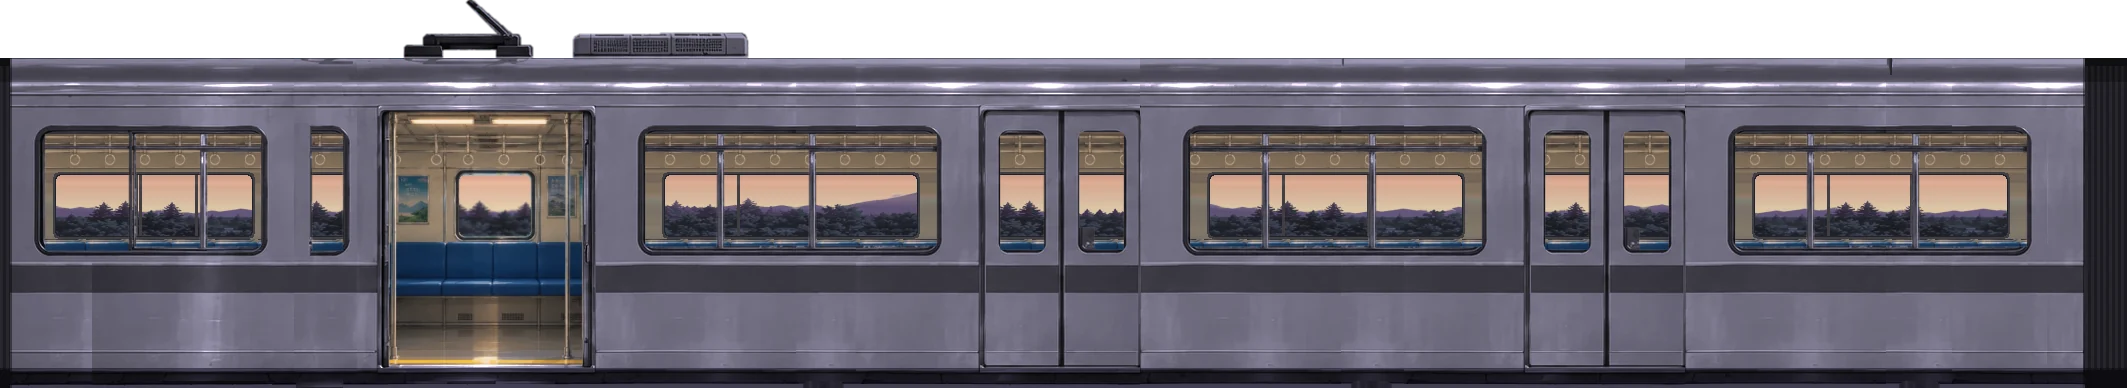
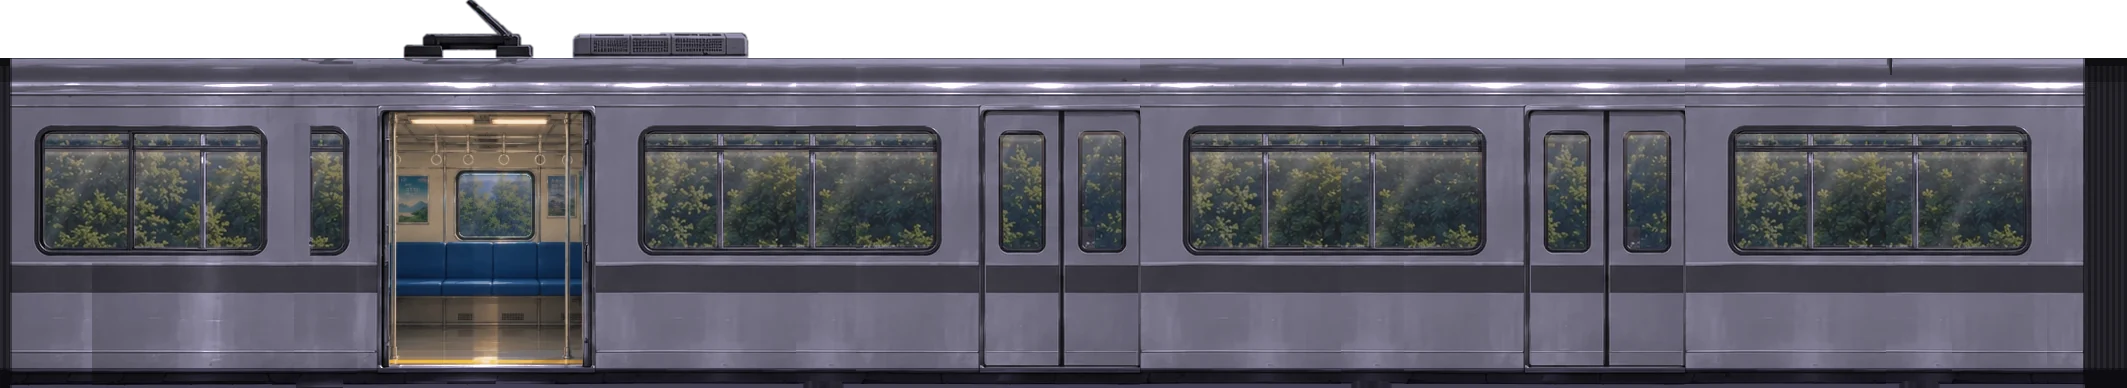
Practice on the desk: every window the painting's, relit for the hour (plan 244c)
Owner-directed: every window looks as the painting has it by day -- the
trees seen through the car -- at every hour, only the light changed.
windows_at grades the painting's own trees in linear light for the
hour (violet at dawn, warm at dusk, dark at night) in every window and
the doorway's far one, and puts on the glass what the hour puts there:
its sky fading down the pane, a soft sheen, after dark the lit car's
warmth and its ceiling's tubes along each pane's top. The view built
across the car (across, far_view) is gone.

Claude-Session: https://claude.ai/code/session_01ExhwgLgrR24R4iZ8iruncF

diff --git a/frontend/scripts/practice-gate/desk.py b/frontend/scripts/practice-gate/desk.py
@@ -11,8 +11,9 @@ revision the app asks for and where the scene keeps what the app draws
 over it or reads to fit it (the car, the door, the clock, the sign, the
 pillars). The day is the painting itself; dawn, dusk and night are it
 lit again by the phone's own recipes (hours.py), on this painting's
-parts (desk_parts.py), the car's windows showing its lit inside as the
-open doorway does (lit_windows). Needs numpy, Pillow and
+parts (desk_parts.py), every window showing the trees the painting
+shows through the car, lit for the hour, with the hour's light on its
+glass (windows_at). Needs numpy, Pillow and
 opencv-contrib-python-headless, as build.py does.
 
 A change to anything it writes bumps REV: the layers are cached under
@@ -31,7 +32,7 @@ sys.path.insert(0, str(HERE))
 import clouds                   # noqa: E402
 import desk_cut as cut          # noqa: E402
 import desk_parts as parts      # noqa: E402
-from hours import Geometry, Lighter, HOUR_ORDER   # noqa: E402
+from hours import Geometry, Lighter, HOUR_ORDER, lin, srgb   # noqa: E402
 
 REV = 4
 FRONT = HERE.parent.parent
@@ -136,36 +137,22 @@ AMBIENT = {'dawn': (0.80, 0.75, 0.86), 'dusk': (0.74, 0.60, 0.58), 'night': (0.3
 # the white letters keep their light, the steel round the panel is steel.
 SIGN_LIT = {'dawn': 0.86, 'dusk': 0.8, 'night': 0.62}
 SIGN_FRAME = 7                # px: the steel ring round a sign's panel, twice over and one
-# The open doorway's inside between its two stanchions, whose wall over
-# the far window it mirrors after dark.
-INTERIOR = (cut.STANCHIONS[0] + 4, cut.STANCHIONS[1] - 3)
 # The sun the painted inside has on its floor, after dark the lamps': how
 # much of the floor's light above its own middle each hour keeps.
 FLOOR_SHINE = {'dawn': 0.55, 'dusk': 0.5, 'night': 0.4}
 SILL = 8                      # px: the yellow edge and the sill, under the floor, keep theirs
-DOOR_VIEW = 1500              # where in the scene the doorway's far window's stretch begins
-# What the car's side windows show after dark (across): measured on the
-# inside's picture -- a plain stretch of its wall, one ring's bay (rail,
-# hanger and ring) and its rows in the scene, one cushion -- how much of
-# a window's width the far window across from it fills, how far apart a
-# window's panes may stand and still be one window, the far window's
-# frame (px), the scene's rows its view is taken from, and how much of
-# the doorway's mirroring its glass keeps.
-WALL_COLS = (403, 415)
-RING_BAY = (340, 398)
-RING_ROWS = (470, 506)
-CUSHION = (292, 403)
-ACROSS = 0.8
-PANE_GAP = 12
-FRAME = 3
-VIEW_ROWS = (262, 392)
-ACROSS_MIRROR = 0.8
-SEEN_THROUGH = 0.94           # what the near glass keeps of the light inside
-# Lit inside and darker out, the far glass gives the inside back: how much
-# of its light the far window shows over what lies past it, at each hour.
-MIRROR = {'dawn': 0.12, 'dusk': 0.22, 'night': 0.42}
-GLASS_DIM = 0.66              # the glass gives back less than the wall it mirrors
-STREAK = (7, 3.0)             # px under the far window's top, and half its height
+# The windows at the hour (windows_at): the trees the painting shows
+# through the car, their colours kept, in the hour's light (GRADE, linear),
+# and on the glass the hour's sky (from these rows of the scene) fading
+# down the pane, the lit car's warm light, the ceiling's tubes caught
+# along a pane's top and a soft sheen across it: how much of each.
+GAP_SKY = (286, 326)
+GRADE = {'dawn': (0.3, 0.25, 0.36), 'dusk': (0.3, 0.19, 0.15), 'night': (0.022, 0.03, 0.055)}
+SKY_IN = {'dawn': 0.26, 'dusk': 0.26, 'night': 0.1}
+GLOW = {'dawn': 0.05, 'dusk': 0.1, 'night': 0.15}
+TUBES = {'dawn': 0.16, 'dusk': 0.3, 'night': 0.42}
+SHEEN = {'dawn': 0.12, 'dusk': 0.09, 'night': 0.06}
+TUBE_ROW = (4, 2.2)           # px under a pane's top, and the streak's half height
 EDGE = 2                      # px: the near layer's soft edge past a pillar's band
 
 
@@ -221,111 +208,52 @@ def sign_lit(rgb, day, mask, hour):
     return out
 
 
-def lit_windows(cars, Mc, scene, sky, hour):
-    """Each car's windows at the hour: the car's lit inside seen through
-    them (across), where the painting showed the trees through the car
-    (lit as glass, the trees glowed amber in the panes); and the doorway's
-    far window giving back the lit inside. The day keeps the painting's own."""
+def windows_at(cars, day, Mc, scene, sky, T, hour):
+    """Every window at the hour as the painting has it by day: the trees
+    seen through the car, the doorway's far window's too, their colours
+    kept, in the hour's light; and on the glass what the hour puts there
+    -- its sky, fading down the pane, the lit car's warm light, its
+    ceiling's tubes caught along each pane's top, and a soft sheen."""
     if hour == 'day':
         return cars
-    # the far window, in the doorway and so in every window, mirroring the
-    # lit inside: the wall's light, brightest under the ceiling, over the
-    # forest past it, softened by the glass
-    rgb, al = cars['car']
-    far, inside = Mc['car']['far'], Mc['car']['inside']
-    rows = np.arange(rgb.shape[0])[:, None]
-    ys = np.nonzero(far)[0]
-    top, foot = ys.min(), ys.max()
-    wall = np.median(rgb[inside & (rows < top) & (np.arange(rgb.shape[1]) >= INTERIOR[0])[None, :]
-                         & (np.arange(rgb.shape[1]) < INTERIOR[1])[None, :]], axis=0)
-    fall = 1 - 0.3 * np.clip((rows - top) / max(foot - top, 1), 0, 1)
-    glow = wall[None, None, :] * fall[..., None] * GLASS_DIM
-    # and the ceiling's tubes caught in it, a soft streak under its top
-    tube = rgb[inside & (rows < top)].max(axis=0)
-    streak = np.exp(-((rows - top - STREAK[0]) / STREAK[1]) ** 2)[..., None]
-    glow = glow * (1 - streak * 0.55) + tube[None, None, :] * streak * 0.55
-    past = cv2.GaussianBlur(rgb, (0, 0), 0.7)
-    m = (cv2.GaussianBlur(far.astype(np.float32), (3, 3), 0) * MIRROR[hour])[..., None]
-    soft = cv2.GaussianBlur(far.astype(np.float32), (3, 3), 0)[..., None]
-    rgb = rgb * (1 - soft) + (past * (1 - m / np.maximum(soft, 1e-3)) + glow * (m / np.maximum(soft, 1e-3))) * soft
-    cars = dict(cars, car=(np.clip(rgb, 0, 1), al))
+    band = scene[GAP_SKY[0]:GAP_SKY[1]][sky[GAP_SKY[0]:GAP_SKY[1]]]
+    gap = np.median(band, axis=0)
+    sheen = np.clip(gap * 0.6 + 0.4, 0, 1)
+    lamp = np.asarray(T['glass'], np.float32)
+    tube = np.asarray(T['tube'], np.float32)
     out = {}
     for name, (rgb, al) in cars.items():
         M = Mc[name]
-        seen = across(cars['car'][0], M, name, scene, sky, glow, hour) * SEEN_THROUGH
-        w = (cv2.GaussianBlur(M['glass'].astype(np.float32), (3, 3), 0) * M['windows'])[..., None]
-        out[name] = (rgb * (1 - w) + seen * w, al)
+        glass = M['glass'] | M['far']
+        # the painting's own trees, their colours kept, in the hour's light
+        # (in linear light: the hour's colour and how much of the day's)
+        d = day[name][..., :3]
+        view = srgb(lin(d) * np.asarray(GRADE[hour], np.float32))
+        view = view * (1 - GLOW[hour]) + lamp * GLOW[hour]
+        rows = np.arange(rgb.shape[0], dtype=np.float32)[:, None]
+        cols = np.arange(rgb.shape[1], dtype=np.float32)[None, :]
+        n, lab, stats, _ = cv2.connectedComponentsWithStats(glass.astype(np.uint8), 8)
+        for k in range(1, n):
+            bx, by, bw, bh, area = stats[k]
+            if area < 40:
+                continue
+            own = (lab == k)[by:by + bh, bx:bx + bw]
+            r, c = rows[by:by + bh], cols[:, bx:bx + bw]
+            pane = view[by:by + bh, bx:bx + bw]
+            # the hour's sky in the glass, faint, fading down the pane
+            sk = np.clip(1 - (r - by) / max(bh * 0.6, 1), 0, 1) * SKY_IN[hour]
+            pane = pane * (1 - sk[..., None]) + gap * sk[..., None]
+            # the ceiling's tubes, along the pane's top
+            st = np.exp(-((r - by - TUBE_ROW[0]) / TUBE_ROW[1]) ** 2) * TUBES[hour]
+            pane = pane * (1 - st[..., None]) + tube * st[..., None]
+            # a sheen across the glass, leaning, a little apart in each pane
+            at = bx + bw * (0.3 + 0.4 * ((bx * 0.618) % 1))
+            sh = np.exp(-((c - at + (r - by) * 0.55) / max(bw * 0.09, 3)) ** 2) * SHEEN[hour]
+            pane = pane * (1 - sh[..., None]) + sheen * sh[..., None]
+            view[by:by + bh, bx:bx + bw][own] = pane[own]
+        w = cv2.GaussianBlur(glass.astype(np.float32), (3, 3), 0)[..., None] * (M['windows'] | M['far'])[..., None]
+        out[name] = (np.clip(rgb * (1 - w) + view * w, 0, 1), al)
     return out
-
-
-def across(lit, M, name, scene, sky, glow, hour):
-    """What a car's side window shows of the car after dark, over its
-    whole length, so each window shows its own part of it (tiled from
-    the doorway, every pane held a copy of the doorway's own window):
-    the strap rail and its rings running the car's length, the far wall,
-    the far window across from each near one -- one to a window, its
-    panes as many as the near one's, the hour's sky and trees in it, a
-    stretch of them of its own -- and the far seats' backs under it.
-    Drawn from the doorway's inside at the hour, so it is lit as that is."""
-    H, W = lit.shape[:2]
-    r = -cut.CAR[0]                                    # the scene's rows in the layer's
-    out = np.zeros_like(lit)
-    # the wall, row by row, from a plain stretch of the doorway's
-    c0, c1 = (round(cut.inside_at(x)) for x in WALL_COLS)
-    assert c1 > c0, 'WALL_COLS must lie in one of desk_cut.KEEP'
-    wall = np.median(lit[:, c0:c1], axis=1)
-    out[:] = wall[:, None, :]
-    # the rail and its rings: one ring's bay of the doorway, run along the car
-    b0, b1 = (round(cut.inside_at(x)) for x in RING_BAY)
-    y0, y1 = RING_ROWS[0] + r, RING_ROWS[1] + r
-    bay = lit[y0:y1, b0:b1]
-    reps = np.arange(W) % (b1 - b0)
-    out[y0:y1] = bay[:, reps]
-    # the far seats' backs: one cushion of the doorway, run along the car
-    s0, s1 = (round(cut.inside_at(x)) for x in CUSHION)
-    y2 = cut.FAR[3] + FRAME + r
-    seat = lit[y2:, s0:s1]
-    out[y2:] = seat[:, np.arange(W) % (s1 - s0)]
-    # the far window across from each window: its frame, as the doorway's
-    # far window's, and the hour's sky and trees in it
-    frame = np.median(lit[cut.FAR[1] - FRAME + r:cut.FAR[1] - 1 + r, cut.FAR[0]:cut.FAR[2]].reshape(-1, 3), axis=0)
-    gasket = lit[cut.FAR[1] + r:cut.FAR[3] + r, cut.FAR[0]:cut.FAR[0] + 2].reshape(-1, 3).min(axis=0)
-    groups = cv2.dilate(M['windows'].astype(np.uint8), np.ones((1, 2 * PANE_GAP + 1), np.uint8))
-    n, lab, stats, _ = cv2.connectedComponentsWithStats(groups, 8)
-    spans = [(a + 6, b - 6) for a, b in zip((cut.P0[1],) + tuple(x1 for _, x1 in cut.PILLARS),
-                                             tuple(x0 for x0, _ in cut.PILLARS) + (cut.W,)) if b - a > 120]
-    fy0, fy1 = cut.FAR[1] + r, cut.FAR[3] + r
-    for k in sorted(range(1, n), key=lambda i: stats[i][0]):
-        bx, by, bw, bh, _ = stats[k]
-        inset = round(bw * (1 - ACROSS) / 2)
-        x0, x1 = bx + inset, bx + bw - inset
-        if x1 - x0 < 12:
-            continue
-        box = parts.rounded(lit.shape[:2], x0 - FRAME, fy0 - FRAME, x1 + FRAME, fy1 + FRAME, 5)
-        out[box] = frame
-        glass = parts.rounded(lit.shape[:2], x0, fy0, x1, fy1, 4)
-        ring = parts.rounded(lit.shape[:2], x0 - 1, fy0 - 1, x1 + 1, fy1 + 1, 4) & ~glass
-        out[ring] = gasket
-        # its own stretch of the scene's sky and trees, never over a pillar
-        a, b = spans[(k * 7 + (name == 'car2') * 3) % len(spans)]
-        w = x1 - x0
-        sx = a + ((k * 211 + bx * 3) % max(b - a - w, 1))
-        view = cv2.resize(scene[VIEW_ROWS[0]:VIEW_ROWS[1], sx:sx + w], (w, fy1 - fy0), interpolation=cv2.INTER_AREA)
-        # the near window's panes, again across the car, a little closer together
-        own = (lab[by:by + bh, bx:bx + bw] == k) & M['glass'][by:by + bh, bx:bx + bw]
-        cols = own.any(axis=0)
-        edges = np.nonzero(np.diff(cols.astype(np.int8)) == 1)[0][1:] + 1    # where a pane begins, past the first
-        for e in edges:
-            mx = round(x0 + (e / bw) * w) if bw else x0
-            view[:, max(mx - x0 - 1, 0):mx - x0 + 2] = frame
-        # after dark the lit car in its glass, faintly
-        m = MIRROR[hour] * ACROSS_MIRROR
-        g = glow[fy0:fy1][:, :1, :]
-        view = view * (1 - m) + g * m
-        region = out[fy0:fy1, x0:x1]
-        gl = glass[fy0:fy1, x0:x1]
-        region[gl] = view[gl]
-    return np.clip(out, 0, 1)
 
 
 def pillars_edged(lit, near_rgb):
@@ -346,26 +274,6 @@ def pillars_edged(lit, near_rgb):
     lit = lit.copy()
     lit[band] = near_rgb[band]
     return lit
-
-
-def far_view(cars, Mc, scene, hour):
-    """What the inside's far window shows at the hour: a stretch of the
-    scene's own sky, hills and trees, as every far window across the car
-    shows its own (across): the picture's trees, lit as the forest, stood
-    blurred behind the glass, and lit as one, the sky between them a slab."""
-    if hour == 'day':
-        return cars
-    rgb, al = cars['car']
-    far = Mc['car']['far']
-    ys, xs = np.nonzero(far)
-    y0, y1, x0, x1 = ys.min(), ys.max() + 1, xs.min(), xs.max() + 1
-    sx = DOOR_VIEW
-    view = cv2.resize(scene[VIEW_ROWS[0]:VIEW_ROWS[1], sx:sx + x1 - x0], (x1 - x0, y1 - y0), interpolation=cv2.INTER_AREA)
-    out = rgb.copy()
-    box = out[y0:y1, x0:x1]
-    own = far[y0:y1, x0:x1]
-    box[own] = view[own]
-    return dict(cars, car=(np.clip(out, 0, 1), al))
 
 
 def inside_lit(cars, Mc, hour):
@@ -458,9 +366,8 @@ def main():
         light.rng.bit_generator.state = state
         drawn, light.placed = light.placed, []
         clear = finish(light.scene(hour, bg_a, M, clouds=False)[0])
-        cars = {name: light.car(hour, a, Mc[name]) for name, a in car.items()}
-        cars = far_view(inside_lit(cars, Mc, hour), Mc, clear, hour)
-        cars = lit_windows(cars, Mc, clear, M['sky'], hour)
+        cars = inside_lit({name: light.car(hour, a, Mc[name]) for name, a in car.items()}, Mc, hour)
+        cars = windows_at(cars, car, Mc, clear, M['sky'], light.H[hour], hour)
         fill[hour] = write(hour, lit, clear, cars, near_rgb)
         stars[hour] = [[round(float(x), 1), round(float(y), 1), round(float(b), 2)]
                        for x, y, b in sorted(drawn, key=lambda st: -st[2])[:TWINKLE[hour]]]

diff --git a/frontend/scripts/practice-gate/README.md b/frontend/scripts/practice-gate/README.md
@@ -112,7 +112,7 @@ the app asks for, and the fit.
 | `desk_cut.py` | cuts the picture's name strip off; paints out the gate button and the clock's face (the app draws both); draws the platform under the board again from the painting's own bays and one bay more past the right edge, for a wide window: the canopy at the rafters' repeat; the sky quilted from the sky past Fuji, in strips at seeded offsets joined on their least-error cut (mirrored at the seam, it showed a house and a cloud twice, face to face); the floor carried at the pillars' own pitch, so each shadow and reflection falls from its pillar (mirrored, the shadows met in a V under every bay); the car carried along its doors and windows from the car with its pillar drawn out (carried with it, the pillar stood as a sliver beside the next); a pillar carried one bay on. Each car ends in a body panel and its part of a gangway, the left one's hidden behind the frame's pillar, so the cars of a passing train meet as cars do. In the open doorway it draws the car's inside from the owner's second picture, `source/interior.webp` (plan 244c): the picture's opening is wider than the car's door, so its columns are kept in runs (`KEEP`) that let out only plain wall, trees and bench between the rings, posters and stanchions, joined over a few px and brought to the doorway's size (`INSIDE`); `FAR`, `STANCHIONS` and `FLOOR_IN` are measured on the picture through the same map. Then it cuts the layers and the stripe's masks |
 | `desk_parts.py` | the scene's parts as masks, as `parts.py` does for the phone's (the sky and its clouds, Fuji's snow, the far hills, the forest, the canopy, what hangs from it and its lamps, the wires, the platform and its tactile strip, the sign less the sky round it; on the cars their roof, side, windows and their glass apart from the mullions and transom, the lit inside and its far window, the underframe; in front the pillars, the pillar's sign and the bench) |
 | `desk_parts.py`, the land | the land is told from the sky by a matte (plan 244b), not a line: GrabCut seeded by what is surely sky (high up, over Fuji's traced outline) and surely land (the forest low down, Fuji under its outline), softened by a guided filter and read again, at the edge, as the share of the way from the sky's colour to the land's. Each hour lights the sky from the sky's colour and the land from the land's, and lays them together by it: cut by a line per column, a tree's top stood in steps and the sky's light it held stood round it as a rim, Fuji's slope wore a pale line, and the far hills, as pale as the sky, were taken for it and lit away (they are the land's now, and the hour's far colour). The town's windows are the forest's, never Fuji's slope. The roof's gear is traced (`desk_cut.PANTO`, `COOLER`): its dark steel is the forest's shade's, and the cooler let the forest through its vents |
-| `desk.py` | lights the parts at each hour and writes the app's files. After dark the windows show what the open doorway shows -- the strap rail and its rings, the cream wall, the far window -- tiled along each, the far glass mirroring the lit inside with the ceiling's tubes caught in it (the phone's recipe lit the trees seen through the car, and they glowed amber). The inside's far window shows the hour's sky, taken from the scene's own rows at the horizon's height, between and over its trees lit as the forest, the lit car faintly in the glass (`far_view`, `MIRROR`). After dark every side window looks across the car (`across`): the rail and rings of one ring's bay and one cushion of the doorway run along the car's length, and across from each window (its panes joined as one) a far window of its own, framed as the doorway's, with as many panes, showing its own stretch of the hour's sky and trees from the scene, never over a pillar -- tiled from the doorway, every pane held a copy of the doorway's window; the sun the picture lays on the inside's floor goes with the sun (`inside_lit`); the signs' panels dim, their letters keep their light, their steel frames are steel; the stars are the phone's at this painting's scale. The pillars: the near layer's soft edge takes the pillar's lit colour on both sides (it kept the day's sky, a pale line by each pillar after dark), the scene under each pillar is the pillar, its round base included (`desk_cut.BASE`), and the sun's white rim on their right is lit as the lamps leave it (`Desk.pillar_knee`) |
+| `desk.py` | lights the parts at each hour and writes the app's files. After dark the windows show what the open doorway shows -- the strap rail and its rings, the cream wall, the far window -- tiled along each, the far glass mirroring the lit inside with the ceiling's tubes caught in it (the phone's recipe lit the trees seen through the car, and they glowed amber). Every window, the inside's far one too, keeps the trees the painting shows through the car, their colours kept and only the light changed (`windows_at`, `GRADE` in linear light), with what the hour puts on the glass: its sky fading down the pane, a soft sheen, after dark the lit car's warmth and its tubes along each pane's top (lit as the forest, the trees glowed amber; tiled from the doorway, every pane held a copy of its window; built as a view across the car, the windows were no longer the painting's); the sun the picture lays on the inside's floor goes with the sun (`inside_lit`); the signs' panels dim, their letters keep their light, their steel frames are steel; the stars are the phone's at this painting's scale. The pillars: the near layer's soft edge takes the pillar's lit colour on both sides (it kept the day's sky, a pale line by each pillar after dark), the scene under each pillar is the pillar, its round base included (`desk_cut.BASE`), and the sun's white rim on their right is lit as the lamps leave it (`Desk.pillar_knee`) |
 
 The app fits the scene to its frame in `deskFit.js` (the open door kept
 left of the board, the sign whole or gone, the clock never cut by the

diff --git a/DESIGN.md b/DESIGN.md
@@ -1327,13 +1327,13 @@ Today's column's width (`components/practice/gate/DeskGate`):
 - **The open door shows the car's inside as the owner painted it**
   (plan 244c, `source/interior.webp`): shown narrower than painted,
   never squeezed (plain columns let out between its rings, posters and
-  stanchions), and lit at each hour as the car is lit, its far window
-  showing the hour's sky behind the trees and, after dark, the lit car
-  faintly in the glass. After dark the car's other windows look across
-  it: the strap rail and its rings along the car, the far wall, one far
-  window across from each window (its panes as many, a stretch of the
-  hour's own sky and trees of its own) and the far seats' backs -- never
-  a copy of the doorway in each pane.
+  stanchions), and lit at each hour as the car is lit.
+- **Every window is the painting's** (owner-directed): the trees it
+  shows through the car, in each window and the doorway's far one, at
+  every hour, their colours kept and only the light changed, with what
+  the hour puts on the glass -- its sky fading down the pane, a soft
+  sheen, after dark the lit car's warmth and its tubes along each pane's
+  top. Never a view built for the window.
 
 ## Space
 
